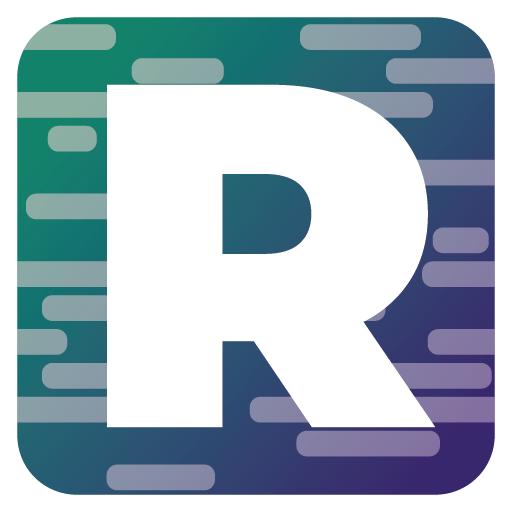
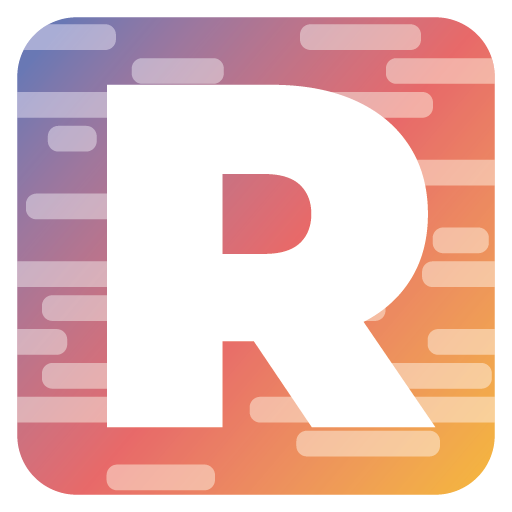
Recolored Roomba from Redencon to MKI pallette

diff --git a/static/style.css b/static/style.css
@@ -9,11 +9,13 @@
 
 
 :root {
-    --color-primary: #06826a;
-    --color-primary-dimmed: #698680;
-    --color-secondary: #3a1771;
-    --color-primary-light: #24c1a4;
-    --color-secondary-light: #4b44c5;
+    --color-primary: #6678B9;
+    --color-primary-dimmed: #374163;
+    --color-secondary: #ED6A66;
+    --color-primary-light: #EAA09F;
+    --color-secondary-light: #949CB5;
+    --color-tertiary: #FAB62F;
+    --colot-tertiary-light: #F9CD7A;
     --color-warning: #914519;
     --color-background: #f5f5f5;
     --color-text: #000;
@@ -21,7 +23,7 @@
     --color-text-grey: #666;
     --font: 'Montserrat', sans-serif;
     --font-size: 16px;
-    --main-gradient: linear-gradient(80deg, var(--color-primary), var(--color-secondary));
+    --main-gradient: linear-gradient(80deg, var(--color-primary) 0%, var(--color-secondary) 50%, var(--color-tertiary) 100%);
 
     --large-font: 1.5rem;
     --x-large-font: 2rem;

diff --git a/main.py b/main.py
@@ -68,7 +68,7 @@ BUILDING_PALETTES = {
     'БК': ["#87B145", "#A6D854", "#678734"],
     'УПМ': ["#AF447F", "#E057A2", "#7F315C"],
     'КМО': ["#F47742", "#FF9C75", "#B55830"],
-    'Roomba': ["#06826A", "#3A1771", "#24C1A4", "#4B44C5"]
+    'Roomba': ["#6678B9", "#ED6A66", "#FAB62F"]
 }
 
 # def filter_data_for_day(data, selected_date):
@@ -315,7 +315,7 @@ def change_theme(theme):
     if theme == "navy":
         return [{"background-color": BUILDING_PALETTES[building][0]} for building in BUILDINGS]
     dbm.counter_plus_one("use_roomba_theme")
-    return [{"background-color": BUILDING_PALETTES["Roomba"][i % 2]} for i, _ in enumerate(BUILDINGS)]
+    return [{"background-color": BUILDING_PALETTES["Roomba"][i % 3]} for i, _ in enumerate(BUILDINGS)]
 
 # @app.callback(
 #     [Output(f"collapse-{building}", "is_open") for building in BUILDINGS],
